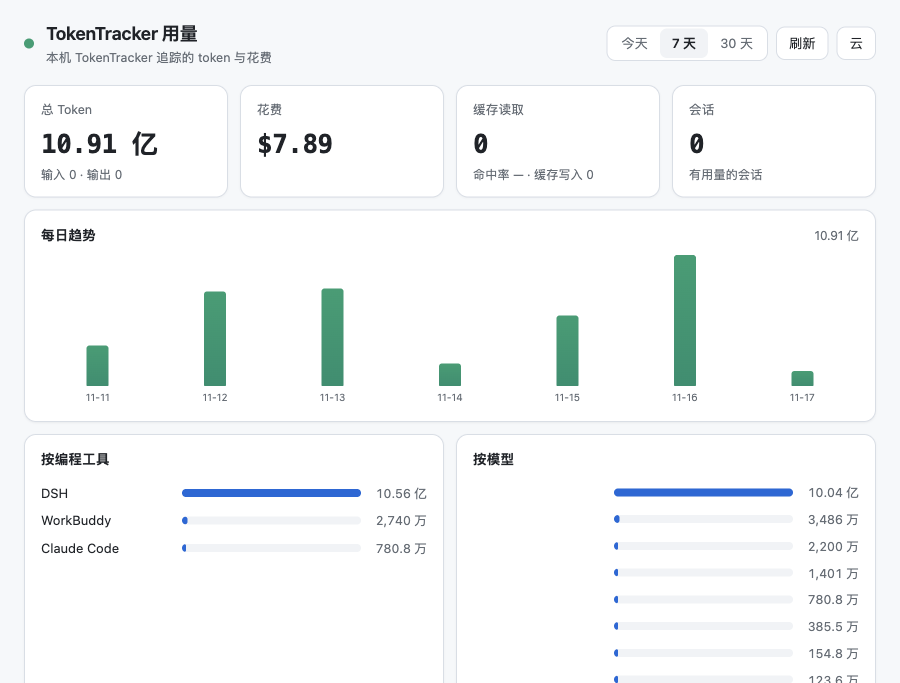
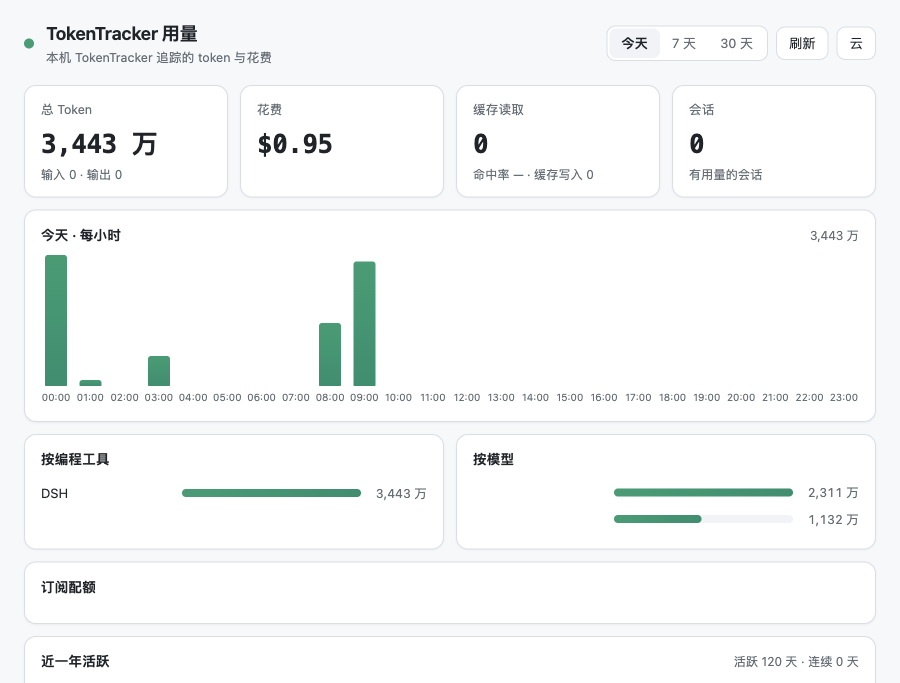
fix: 默认主题改浅色（Jerry 指定），删 funding
- style.css：:root 浅色为默认，?theme=dark 时切深色；spec 同步
- package.json：移除 funding（未开通 Sponsors）

diff --git a/page/style.css b/page/style.css
@@ -1,31 +1,6 @@
-/* TokenTracker 用量看板。默认深色；boot.js 传 ?theme=light 时切亮色（data-theme 控制）。
+/* TokenTracker 用量看板。默认浅色（Jerry 指定）；boot.js 传 ?theme=dark 时切深色（data-theme 控制）。
    色板与组件口径见 docs/design-spec.md。 */
 :root {
-  color-scheme: dark;
-  --bg: #0b0f14;
-  --surface: #121821;
-  --surface-2: #1b2430;
-  --line: #263140;
-  --fg: #e6edf3;
-  --muted: #8b98a9;
-  --brand: #2dd4a7;
-  --brand-deep: #0e8f6e;
-  --accent: #58a6ff;
-  --warn: #d29922;
-  --danger: #f85149;
-  --heat-0: #161b22;
-  --heat-1: #0e4429;
-  --heat-2: #006d32;
-  --heat-3: #26a641;
-  --heat-4: #39d353;
-  --shadow: 0 1px 2px rgba(0, 0, 0, 0.4);
-  --radius: 12px;
-  font-family: -apple-system, BlinkMacSystemFont, "Segoe UI", "PingFang SC", "Noto Sans SC", sans-serif;
-}
-
-/* boot.js 会把 magpie 的深浅设置以 ?theme= 传进来，app.js 设到 <html data-theme> 上。
-   没有显式 theme 时保持深色（magpie 页面默认深色，见 design-spec）。 */
-:root[data-theme="light"] {
   color-scheme: light;
   --bg: #f6f8fa;
   --surface: #ffffff;
@@ -44,6 +19,31 @@
   --heat-3: #30a14e;
   --heat-4: #216e39;
   --shadow: 0 1px 2px rgba(31, 35, 40, 0.06);
+  --radius: 12px;
+  font-family: -apple-system, BlinkMacSystemFont, "Segoe UI", "PingFang SC", "Noto Sans SC", sans-serif;
+}
+
+/* boot.js 会把 magpie 的深浅设置以 ?theme= 传进来，app.js 设到 <html data-theme> 上。
+   没有显式 theme 时保持浅色。 */
+:root[data-theme="dark"] {
+  color-scheme: dark;
+  --bg: #0b0f14;
+  --surface: #121821;
+  --surface-2: #1b2430;
+  --line: #263140;
+  --fg: #e6edf3;
+  --muted: #8b98a9;
+  --brand: #2dd4a7;
+  --brand-deep: #0e8f6e;
+  --accent: #58a6ff;
+  --warn: #d29922;
+  --danger: #f85149;
+  --heat-0: #161b22;
+  --heat-1: #0e4429;
+  --heat-2: #006d32;
+  --heat-3: #26a641;
+  --heat-4: #39d353;
+  --shadow: 0 1px 2px rgba(0, 0, 0, 0.4);
 }
 
 * { box-sizing: border-box; }

diff --git a/page/app.js b/page/app.js
@@ -14,7 +14,7 @@
     ? langParam
     : (navigator.language || "").toLowerCase().startsWith("zh") ? "zh" : "en";
   const zh = lang === "zh";
-  // boot.js 会把 magpie 的深浅设置以 ?theme=dark|light 传进来；缺省保持深色。
+  // boot.js 会把 magpie 的深浅设置以 ?theme=dark|light 传进来；缺省保持浅色。
   const themeParam = params.get("theme");
   if (themeParam === "dark" || themeParam === "light") {
     document.documentElement.dataset.theme = themeParam;

diff --git a/docs/design-spec.md b/docs/design-spec.md
@@ -5,7 +5,7 @@
 
 ## 1. 原则
 
-- 深色优先（magpie 页面默认深色），同时支持浅色（`data-theme="light"`）。
+- 浅色为默认主题（Jerry 指定）；magpie 深色模式时 boot.js 传 `?theme=dark`，页面经 `data-theme="dark"` 切深色。
 - 信息密度适中：一屏看清「花了多少、花在哪、还剩多少」。
 - 数字用等宽字体 + `font-variant-numeric: tabular-nums`，对齐不跳动。
 - 动效克制：150ms ease 过渡即可，不做大动画。
@@ -13,52 +13,56 @@
 
 ## 2. CSS 变量（直接拷进 style.css / 站点 css）
 
+默认浅色；`:root[data-theme="dark"]` 提供深色覆盖（`?theme=dark` 时生效）。
+
 ```css
-:root, [data-theme="dark"] {
-  --bg: #0b0f14;          /* 页面底 */
-  --surface: #121821;     /* 卡片 */
-  --surface-2: #1a2330;   /* 卡片内嵌套块 */
-  --border: #233041;
-  --text: #e6edf3;
-  --text-dim: #8b98a9;
-  --text-faint: #5c6a7d;
-  --brand: #2dd4a7;       /* 主色（青绿） */
-  --brand-deep: #1f9d78;
-  --brand-soft: rgba(45, 212, 167, 0.12);
-  --accent: #58a6ff;      /* 次强调 / 链接 */
-  --warn: #d29922;
-  --danger: #f85149;
-  --grid: #1d2735;        /* 图表网格线 */
-  --heat-0: #161b22;      /* 热力图 5 档 */
-  --heat-1: #0e4429;
-  --heat-2: #006d32;
-  --heat-3: #26a641;
-  --heat-4: #39d353;
+:root {
+  color-scheme: light;
+  --bg: #f6f8fa;          /* 页面底 */
+  --surface: #ffffff;     /* 卡片 */
+  --surface-2: #f0f3f7;   /* 卡片内嵌套块 */
+  --border: #d8dee6;
+  --text: #1f2328;
+  --text-dim: #656d76;
+  --text-faint: #8c959f;
+  --brand: #1a9e72;       /* 主色（青绿） */
+  --brand-deep: #0e8f6e;
+  --brand-soft: rgba(26, 158, 119, 0.10);
+  --accent: #0969da;      /* 次强调 / 链接 */
+  --warn: #9a6700;
+  --danger: #d1242f;
+  --grid: #e4e9ee;        /* 图表网格线 */
+  --heat-0: #ebedf0;      /* 热力图 5 档 */
+  --heat-1: #9be9a8;
+  --heat-2: #40c463;
+  --heat-3: #30a14e;
+  --heat-4: #216e39;
   --radius: 12px;
   --radius-sm: 8px;
   --font: -apple-system, BlinkMacSystemFont, "Segoe UI", "PingFang SC", "Hiragino Sans GB", "Microsoft YaHei", sans-serif;
   --mono: ui-monospace, "SF Mono", "JetBrains Mono", Menlo, Consolas, monospace;
 }
-[data-theme="light"] {
-  --bg: #f6f8fa;
-  --surface: #ffffff;
-  --surface-2: #f0f3f7;
-  --border: #d0d7de;
-  --text: #1f2328;
-  --text-dim: #59636e;
-  --text-faint: #8c959f;
-  --brand: #1a9e77;
-  --brand-deep: #147a5c;
-  --brand-soft: rgba(26, 158, 119, 0.10);
-  --accent: #0969da;
-  --warn: #9a6700;
-  --danger: #cf222e;
-  --grid: #e4e9ee;
-  --heat-0: #eaeef2;
-  --heat-1: #9be9a8;
-  --heat-2: #40c463;
-  --heat-3: #30a14e;
-  --heat-4: #216e39;
+:root[data-theme="dark"] {
+  color-scheme: dark;
+  --bg: #0b0f14;
+  --surface: #121821;
+  --surface-2: #1b2430;
+  --border: #263140;
+  --text: #e6edf3;
+  --text-dim: #8b98a9;
+  --text-faint: #5c6a7d;
+  --brand: #2dd4a7;
+  --brand-deep: #0e8f6e;
+  --brand-soft: rgba(45, 212, 167, 0.12);
+  --accent: #58a6ff;
+  --warn: #d29922;
+  --danger: #f85149;
+  --grid: #1d2735;
+  --heat-0: #161b22;
+  --heat-1: #0e4429;
+  --heat-2: #006d32;
+  --heat-3: #26a641;
+  --heat-4: #39d353;
 }
 ```
 

diff --git a/CHANGELOG.md b/CHANGELOG.md
@@ -9,7 +9,7 @@
 
 ### 新增
 
-- 看板 UI 按 `docs/design-spec.md`（v1）全面改版：默认深色主题、`?theme=` 跟随 magpie 深浅设置、指标卡与渐变趋势柱图、条形排行、自绘组件样式。
+- 看板 UI 按 `docs/design-spec.md`（v1）全面改版：浅色为默认主题、`?theme=dark` 跟随 magpie 深色模式、指标卡与渐变趋势柱图、条形排行、自绘组件样式。
 - 订阅配额面板：`/api/limits` 透传 TokenTracker 的 `tokentracker-usage-limits`，按 provider 展示用量窗口百分比、重置时间与倒计时（<70% 绿 / 70–85% 橙 / >85% 红），60 秒缓存。
 - 近一年活动热力图：`/api/heatmap` 透传 `tokentracker-usage-heatmap`，GitHub 风格周列 × 7 行格子，带月份标签与活跃/连续天数，5 分钟缓存。
 - 成就徽章面板：`/api/achievements` 透传 `tokentracker-achievements`，展示各成就 tier 与进度，5 分钟缓存。
